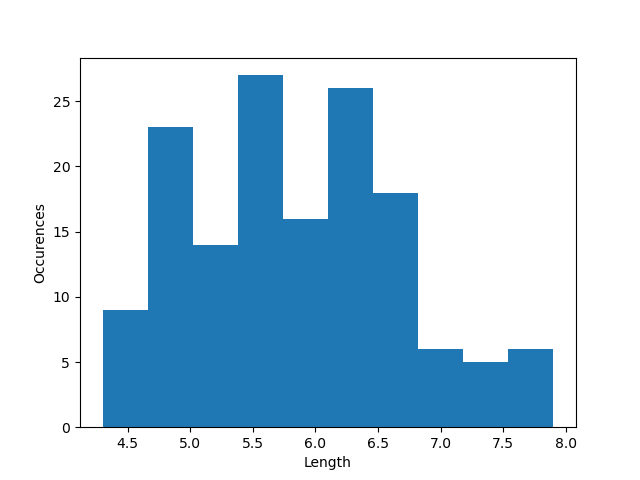
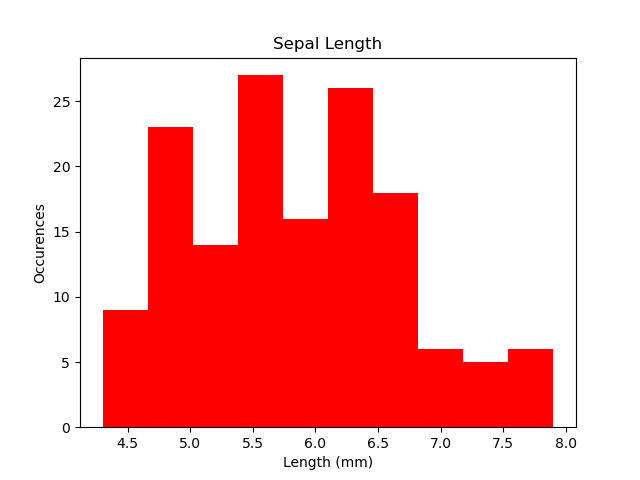
Text elements not working, all else working fine, improvements done to titles and axes of graphs

Changed region(s): [[0.1562, 0.1562, 0.875, 0.9062], [0.4375, 0.0625, 0.5938, 0.125], [0.4375, 0.9375, 0.5938, 1.0]]

diff --git a/analysis.py b/analysis.py
@@ -7,9 +7,13 @@ import csv
 
 # Drawn from https://www.w3schools.com/python/pandas/pandas_csv.asp
 
-
-
 data = pd.read_csv("Iris-dataset.csv")
+
+summary = "print(str(data.describe))"
+with open("Testtxt.txt","w+") as f:
+    f.write(str(summary))
+
+
 
 # Code taken from https://www.geeksforgeeks.org/python-read-csv-columns-into-list/ and https://stackoverflow.com/questions/9012487/matplotlib-pyplot-savefig-outputs-blank-image
 
@@ -18,35 +22,75 @@ sepal_width = data['sepal_width'].tolist()
 petal_length = data['petal_length'].tolist()
 petal_width = data["petal_width"].tolist()
 
-sepal_len_hist = mpl.hist(sepal_length)
-mpl.xlabel("Length")
+sepal_len_hist = mpl.hist(sepal_length, color="red")
+mpl.title("Sepal Length")
+mpl.xlabel("Length (mm)")
 mpl.ylabel("Occurences")
-
 mpl.savefig("sepal_len_hist.png", dpi=100)
-sepal_width_hist = mpl.hist(sepal_width)
+mpl.show()
+
+sepal_width_hist = mpl.hist(sepal_width, color="blue")
+mpl.title("Sepal Width")
+mpl.xlabel("Width (mm)")
+mpl.ylabel("Occurences")
 mpl.savefig("sepal_width_hist.png", dpi=100)
-petal_len_hist = mpl.hist(petal_length)
+mpl.show()
+
+petal_len_hist = mpl.hist(petal_length, color="orange" )
+mpl.title("Petal Length")
+mpl.xlabel("Length (mm)")
+mpl.ylabel("Occurences")
 mpl.savefig("petal_len_hist.png", dpi=100)
-petal_width_hist = mpl.hist(petal_width)
+mpl.show()
+
+petal_width_hist = mpl.hist(petal_width, color="green")
+mpl.title("Petal Width")
+mpl.xlabel("Width (mm)")
+mpl.ylabel("Occurences")
 mpl.savefig("petal_width_hist.png", dpi=100)
+mpl.show()
 
 x = np.array(sepal_width)
 y = np.array(sepal_length)
 z = np.array(petal_length)
 a = np.array(petal_width)
 
-scatter1 = mpl.scatter(x,y)
+scatter1 = mpl.scatter(x,y, color="red")
+mpl.title("Sepal Width - Sepal Length")
+mpl.xlabel("Length/Width (mm)")
+mpl.ylabel("Length/Width (mm)")
 mpl.show()
-scatter2 = mpl.scatter(x,z)
+
+scatter2 = mpl.scatter(x,z, color="blue")
+mpl.title("Sepal Width - Petal Length")
+mpl.xlabel("Length/Width (mm)")
+mpl.ylabel("Length/Width (mm)")
 mpl.show()
-scatter3 = mpl.scatter(x,a)
+
+scatter3 = mpl.scatter(x,a, color="orange")
+mpl.title("Sepal Width - Petal Width")
+mpl.xlabel("Length/Width (mm)")
+mpl.ylabel("Length/Width (mm)")
 mpl.show()
-scatter4 = mpl.scatter(y,z)
+
+scatter4 = mpl.scatter(y,z, color="green")
+mpl.title("Sepal Length - Petal Length")
+mpl.xlabel("Length/Width (mm)")
+mpl.ylabel("Length/Width (mm)")
 mpl.show()
-scatter5 = mpl.scatter(y,a)
+
+scatter5 = mpl.scatter(y,a, color="purple")
+mpl.title("Sepal Length - Petal Width")
+mpl.xlabel("Length/Width (mm)")
+mpl.ylabel("Length/Width (mm)")
 mpl.show()
-scatter6 = mpl.scatter(z,a)
+
+scatter6 = mpl.scatter(z,a, color="yellow")
+mpl.title("Petal Length - Petal Width")
+mpl.xlabel("Length/Width (mm)")
+mpl.ylabel("Length/Width (mm)")
 mpl.show()
+
 
 with open("Iris Summary Information.txt", "w+") as f:
     f.write(str(print(sepal_length)))
